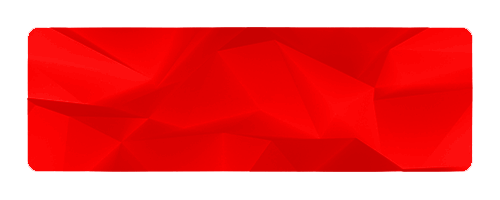
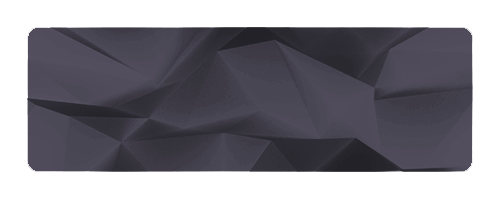
#179 implement 3d lighting - add lighting

diff --git a/ChessRender/RenderFsmCommon/Lights/lights.py b/ChessRender/RenderFsmCommon/Lights/lights.py
@@ -4,26 +4,49 @@ from panda3d.core import PointLight, VBase4, AmbientLight, DirectionalLight, LVe
 class Lights:
     def __init__(self, base, width, height):
         self.base = base
-        self.width, self.height = width, height
-        self.direct_light = []
-        self.spot_light_node = []
-        self.point_light = []
-        self.ambient_light = None
+        #self.width, self.height = width, height
+        #self.direct_light = []
+        #self.spot_light_node = []
+        #self.point_light = []
+        #self.ambient_light = None
         self.setup_lights()
+        #base.render.setShaderAuto()
 
+        #self.point_light[0].node().setShadowCaster(True)
+
+        light1 = self.init_light(10, 10, 15)
+        light2 = self.init_light(-10, -10, 15)
+        #light3 = self.init_light(-10, -10, 15)
+        #light4 = self.init_light(10, -10, 15)
+
+        self.base.render.setLight(light1)
+        self.base.render.setLight(light2)
+        #self.base.render.setLight(light3)
+        #self.base.render.setLight(light4)
+        self.base.render.setShaderAuto()
+
+    def init_light(self, x, y, z):
+        light = self.base.render.attachNewNode(Spotlight("Spot"))
+        light.node().setScene(self.base.render)
+        light.node().setShadowCaster(True)
+        light.node().getLens().setFov(40)
+        light.node().getLens().setNearFar(10, 100)
+        light.setPos(x, y, z)
+        light.lookAt(0, 0, 0)
+        return light
 
     def setup_lights(self):  # This function sets up some default lighting
         self.setup_ambient_light()
         #self.setup_point_light(3.5, -3.5, 2)
         #self.setup_point_light(3.5, 3.5, 2)
-        #self.setup_point_light(0, 0, 5)
+        #self.setup_point_light(0, 10, 10)
         #self.setup_point_light(0, -5, -5)
         #self.setup_point_light(-3.5, -3.5, 2)
-        self.setup_direct_light(0, 0, -1)
+        #self.setup_direct_light(0, 0, -1)
 
     def setup_ambient_light(self):
         ambientLight = AmbientLight("ambientLight")
-        ambientLight.setColor((.7, .7, .7, 1))
+        ambientLight.setColor((.7, .5, .4, 0.7))
         self.ambient_light = self.base.render.attachNewNode(ambientLight)
         self.base.render.setLight(self.base.render.attachNewNode(ambientLight))
 
@@ -58,13 +81,14 @@ class Lights:
     def unset(self):
         # turn off lights
         self.base.render.clearLight()
-        for light in self.direct_light:
-            light.removeNode()
+#        for light in self.direct_light:
+#            light.removeNode()
 
-        for light in self.spot_light_node:
-            light.removeNode()
+#        for light in self.spot_light_node:
+#            light.removeNode()
 
-        for light in self.point_light:
-            light.removeNode()
+#        for light in self.point_light:
+#            light.removeNode()
 
-        self.ambient_light.removeNode()
+        if self.ambient_light is not None:
+            self.ambient_light.removeNode()

diff --git a/ChessRender/RenderFsmCommon/RenderFsmStates/main_menu_render_state.py b/ChessRender/RenderFsmCommon/RenderFsmStates/main_menu_render_state.py
@@ -20,7 +20,7 @@ class FsmStateMainMenu(ScreenState):
         self.screen_atributes.buttons["but:Window settings"] = ButtonFsm("Settigns", (0, 0, -0.35))
         self.screen_atributes.buttons["but:Exit"] = ButtonFsm("Exit", (0, 0, -0.8))
 
-        self.screen_atributes.buttons["but:Style"] = ButtonFsm("Style", (1.3, 0, 0.7), None, None, (-1.5, 1.5, -0.4, 0.8), (1.8, 0.8, 0.8))
+        #self.screen_atributes.buttons["but:Style"] = ButtonFsm("Style", (1.3, 0, 0.7), None, None, (-1.5, 1.5, -0.4, 0.8), (1.8, 0.8, 0.8))
 
         # self.process_offline_game = process_offline_game
         self.process_continue_online_game = process_continue_online_game
@@ -39,7 +39,7 @@ class FsmStateMainMenu(ScreenState):
         self.screen_atributes.buttons["but:Select skins"].add_link("fsm:SkinSelect")
         self.screen_atributes.buttons["but:Window settings"].add_link("fsm:WinSettings")
         self.screen_atributes.buttons["but:Exit"].add_command(self.on_application_exit)
-        self.screen_atributes.buttons["but:Style"].add_command(self.change_screen_style)
+        #self.screen_atributes.buttons["but:Style"].add_command(self.change_screen_style)
 
     def change_screen_style(self):
         global style

diff --git a/ChessRender/RenderFsmCommon/RenderFsmStates/game_render_state.py b/ChessRender/RenderFsmCommon/RenderFsmStates/game_render_state.py
@@ -333,7 +333,6 @@ class FsmStateGameState(ScreenState):
 
     def init_nodes_to_chsess_board(self):
         self.squareRoot = self.render_fsm_ref.render.attachNewNode("squareRoot")
-
         # For each square
         for i in range(64):
             # Load, parent, color, and position the model (a single square
@@ -349,6 +348,9 @@ class FsmStateGameState(ScreenState):
             self.cubes[i].reparentTo(self.squareRoot)
             self.cubes[i].setPos(self.SquarePos(i))
             self.cubes[i].setScale(0.5)
+
+            #self.cubes[i].setShaderAuto()
+
             self.cubes[i].setColor(self.SquareColor(i))
             self.cubes[i].setTexture(self.SquareTexture(i))
 
